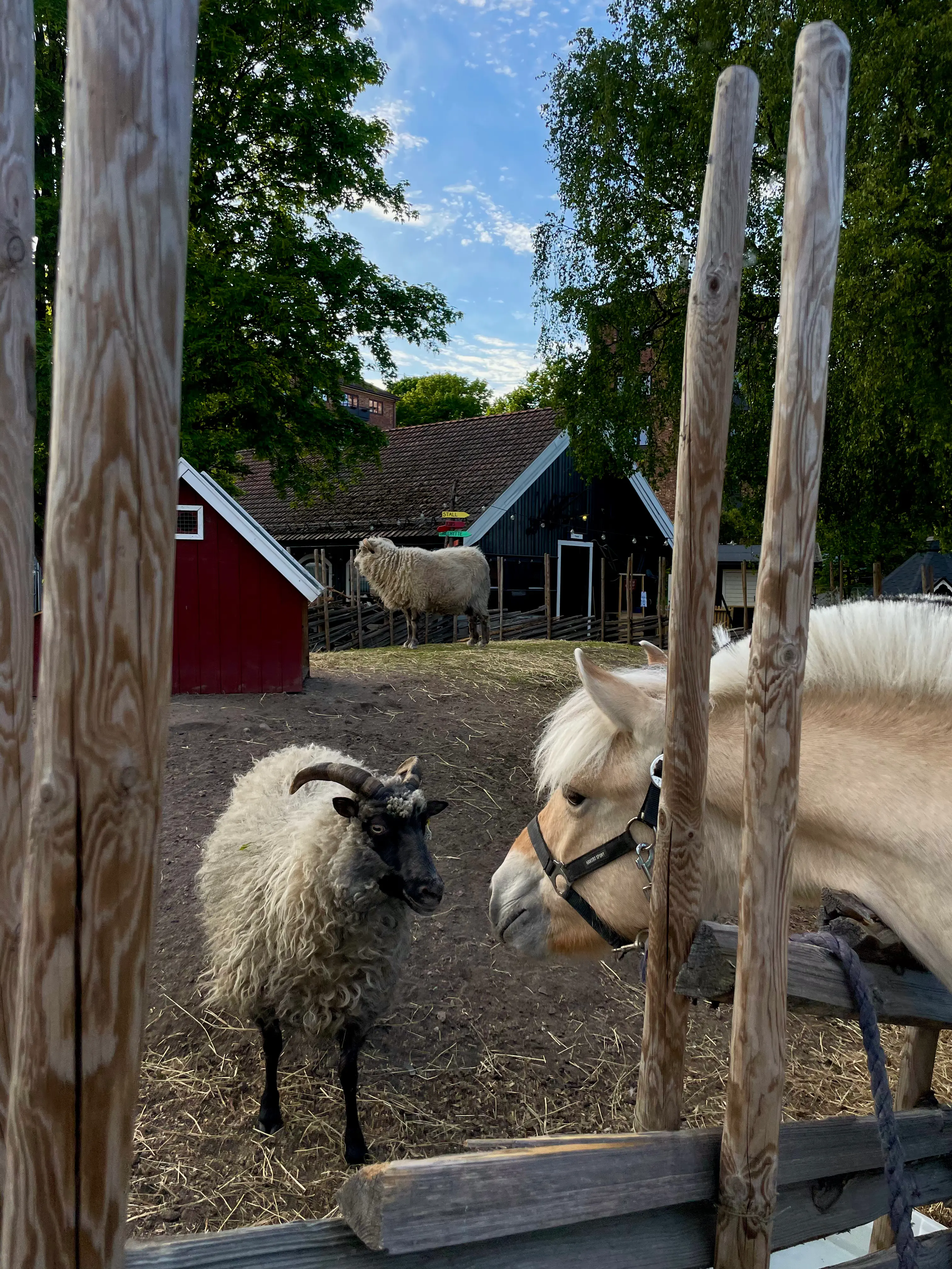
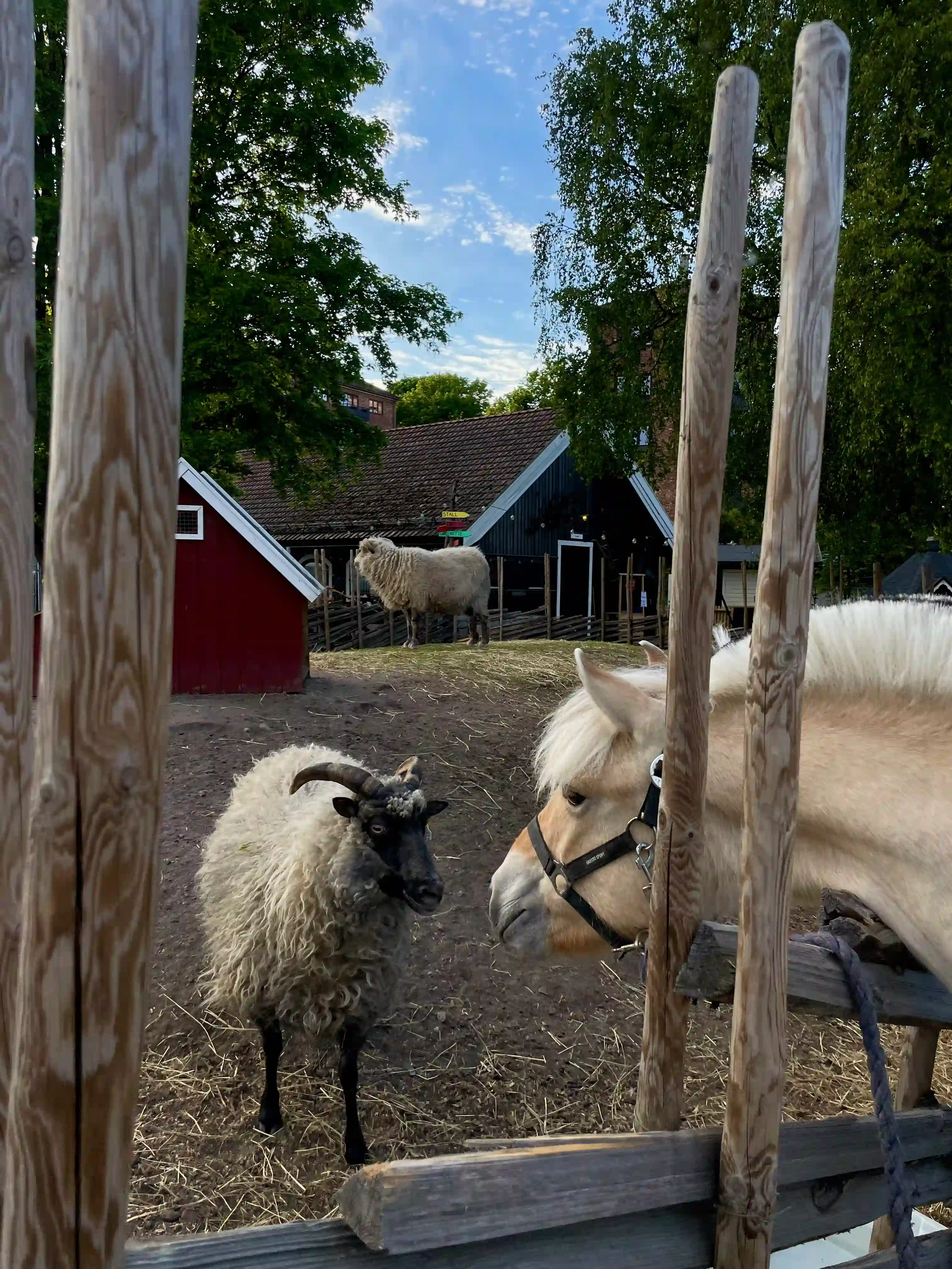
endret bildeformat

diff --git a/html/education.html b/html/education.html
@@ -108,19 +108,19 @@
         <h2>Tidligere skoleoppgaver</h2>
         <div class="highlight-liste">
           <a class="knap" href="../html/grunnleggendeweb.html"> Tema 1 </a>
-          <img src="../img/mittgalleri.jpg" alt="forsidegalleri" />
+          <img src="../img/mittgalleri.webp" alt="forsidegalleri" />
 
           <a class="knap" href="../html/nonprofit-sites.html"> Tema 2 </a>
 
-          <img src="../img/forsidevif.jpg" alt="forsidevif" />
+          <img src="../img/forsidevif.webp" alt="forsidevif" />
 
           <a class="knap" href="../html/public-campaigns.html"> Tema 3 </a>
 
-          <img src="../img/forsideemergency.jpg" alt="forsideemergency" />
+          <img src="../img/forsideemergency.webp" alt="forsideemergency" />
 
           <a class="knap" href="../html/company-websites.html"> Tema 4 </a>
 
-          <img src="../img/forsidefrisør.jpg" alt="forsidefrisør" />
+          <img src="../img/forsidefrisør.webp" alt="forsidefrisør" />
         </div>
       </section>
     </main>
